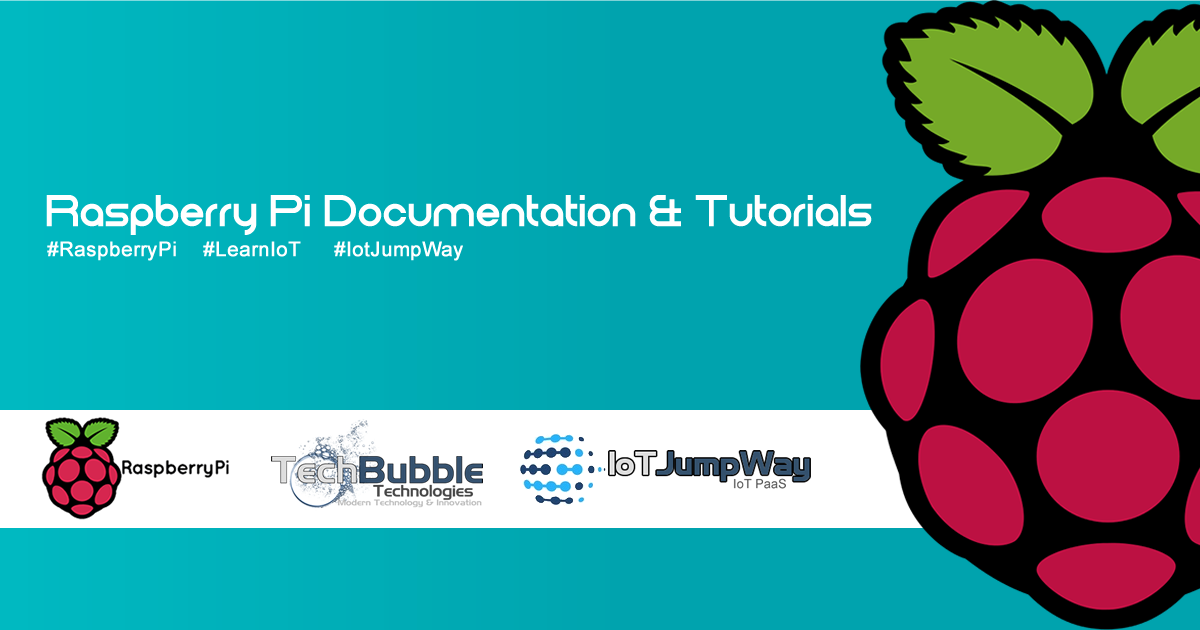
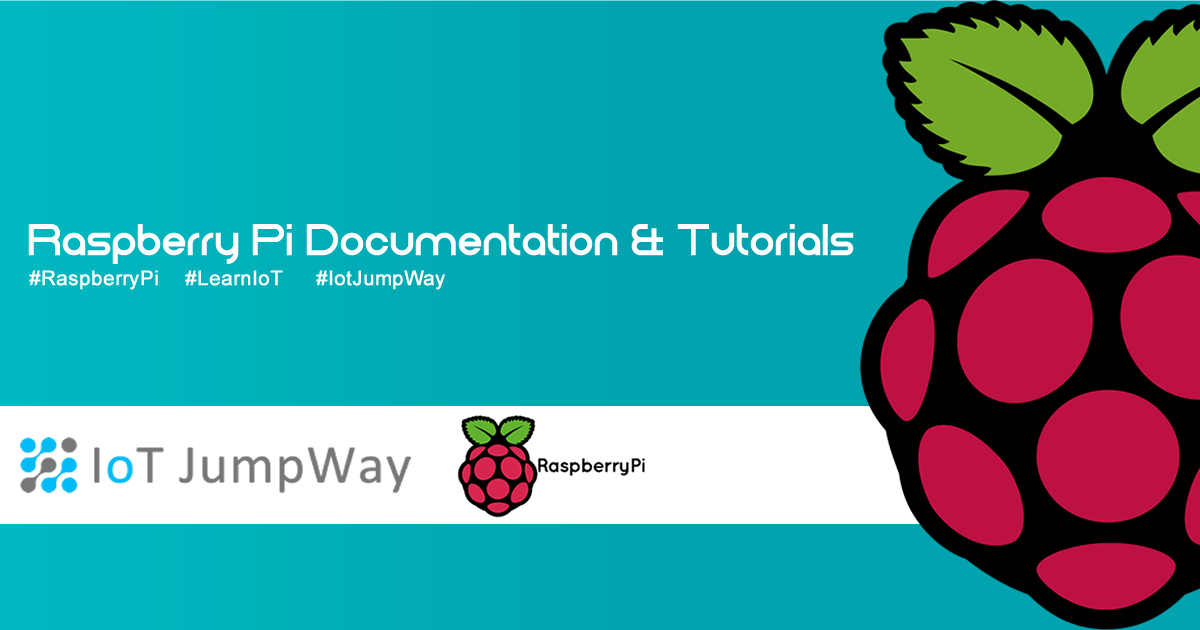
[README] Updated README and graphics

Changed region(s): [[0.0, 0.6333, 0.7708, 0.8444], [0.0, 0.3016, 0.74, 0.4524]]

diff --git a/README.md b/README.md
@@ -1,43 +1,39 @@
 # IoT JumpWay Raspberry Pi Examples
 
-![TechBubble IoT JumpWay Docs](images/main/Raspberry-Pi-Examples.png)  
+![IoT JumpWay Docs](images/main/Raspberry-Pi-Examples.png)
 
 ## Introduction
 
-TechBubble Technologies Internet of Things (IoT) JumpWay is an IoT PaaS that allows anyone to connect IoT devices such as Raspberry Pi, Intel® Galileo, Arduino, ESP8266 and even phones,PCs, Macs and laptops to the Internet of Things. The various IoT JumpWay libraries and samples allow you to connect devices and sensors to the IoT JumpWay and control/monitor sensors/actuators and data to and from the devices.
+IoT JumpWay is an IoT PaaS that allows anyone to connect IoT devices such as Raspberry Pi, Intel® Galileo, Arduino, ESP8266 and even phones,PCs, Macs and laptops to the Internet of Things. The various IoT JumpWay libraries and samples allow you to connect devices and sensors to the IoT JumpWay and control/monitor sensors/actuators and data to and from the devices.
 
-The Raspberry Pi examples provide example projects that you can use to get started with using the TechBubble IoT JumpWay for your IoT projects.
+The Raspberry Pi examples provide example projects that you can use to get started with using the IoT JumpWay for your IoT projects.
 
-## IoT JumpWay Raspberry Pi Examples
+## Examples
 
-- [Basic: Basic LED Python Example](https://github.com/TechBubbleTechnologies/IoT-JumpWay-RPI-Examples/tree/master/Basic-LED/Python "Basic: Basic LED Python Example")
+- [Basic: Basic LED Python Example](https://github.com/iotJumpway/IoT-JumpWay-RPI-Examples/tree/master/Basic-LED/Python "Basic: Basic LED Python Example")
 
-- [Computer Vision: Facial Recognition & Identification Python Example](https://github.com/TechBubbleTechnologies/IoT-JumpWay-RPI-Examples/tree/master/Computer-Vision/Python "Computer Vision: Facial Recognition & Identification Python Example")
+- [Computer Vision: Facial Recognition & Identification Python Example](https://github.com/iotJumpway/IoT-JumpWay-RPI-Examples/tree/master/Computer-Vision/Python "Computer Vision: Facial Recognition & Identification Python Example")
 
-## IoT JumpWay Raspberry Pi Examples Docs
+## Docs
 
-- [Preparing Your Raspberry Pi](https://github.com/TechBubbleTechnologies/IoT-JumpWay-RPI-Examples/blob/master/_DOCS/1-Raspberry-Pi-Prep.md "Preparing Your Raspberry Pi")
+- [Preparing Your Raspberry Pi](https://github.com/iotJumpway/IoT-JumpWay-RPI-Examples/blob/master/_DOCS/1-Raspberry-Pi-Prep.md "Preparing Your Raspberry Pi")
 
-- [Setup Domain Name & SSL For Your Raspberry Pi](https://github.com/TechBubbleTechnologies/IoT-JumpWay-RPI-Examples/blob/master/_DOCS/3-Raspberry-Pi-Domain-And-SSL.md "Setup Domain Name & SSL For Your Raspberry Pi")
+- [Setup Domain Name & SSL For Your Raspberry Pi](https://github.com/iotJumpway/IoT-JumpWay-RPI-Examples/blob/master/_DOCS/3-Raspberry-Pi-Domain-And-SSL.md "Setup Domain Name & SSL For Your Raspberry Pi")
 
-- [Installing OpenCV 3.2.0 On Your Raspberry Pi (LATEST RELEASE)](https://github.com/TechBubbleTechnologies/IoT-JumpWay-RPI-Examples/blob/master/_DOCS/2-Installing-OpenCV-3-2-0.md "Installing OpenCV 3.2.0 On Your Raspberry Pi (LATEST RELEASE)")
+- [Installing OpenCV 3.2.0 On Your Raspberry Pi (LATEST RELEASE)](https://github.com/iotJumpway/IoT-JumpWay-RPI-Examples/blob/master/_DOCS/2-Installing-OpenCV-3-2-0.md "Installing OpenCV 3.2.0 On Your Raspberry Pi (LATEST RELEASE)")
 
-- [Installing OpenCV 3.1.0 On Your Raspberry Pi](https://github.com/TechBubbleTechnologies/IoT-JumpWay-RPI-Examples/blob/master/_DOCS/2-Installing-OpenCV.md "Installing OpenCV 3.1.0 On Your Raspberry Pi")
+- [Installing OpenCV 3.1.0 On Your Raspberry Pi](https://github.com/iotJumpway/IoT-JumpWay-RPI-Examples/blob/master/_DOCS/2-Installing-OpenCV.md "Installing OpenCV 3.1.0 On Your Raspberry Pi")
 
-- [Installing Linux Motion On Your Raspberry Pi](https://github.com/TechBubbleTechnologies/IoT-JumpWay-RPI-Examples/blob/master/_DOCS/5-Installing-Motion.md "Installing Linux Motion On Your Raspberry Pi")
+- [Installing Linux Motion On Your Raspberry Pi](https://github.com/iotJumpway/IoT-JumpWay-RPI-Examples/blob/master/_DOCS/5-Installing-Motion.md "Installing Linux Motion On Your Raspberry Pi")
 
-- [Installing Secure Nginx Server For Linux Motion On Raspberry Pi](https://github.com/TechBubbleTechnologies/IoT-JumpWay-RPI-Examples/blob/master/_DOCS/6-Secure-Nginx-Server-For-Motion.md "Installing Secure Nginx Server For Linux Motion On Raspberry Pi")
+- [Installing Secure Nginx Server For Linux Motion On Raspberry Pi](https://github.com/iotJumpway/IoT-JumpWay-RPI-Examples/blob/master/_DOCS/6-Secure-Nginx-Server-For-Motion.md "Installing Secure Nginx Server For Linux Motion On Raspberry Pi")
 
-- [Securing Your Raspberry Pi With IPTables](https://github.com/TechBubbleTechnologies/IoT-JumpWay-RPI-Examples/blob/master/_DOCS/4-Securing-Your-Raspberry-Pi-With-IPTables.md "Securing Your Raspberry Pi With IPTables")
+- [Securing Your Raspberry Pi With IPTables](https://github.com/iotJumpway/IoT-JumpWay-RPI-Examples/blob/master/_DOCS/4-Securing-Your-Raspberry-Pi-With-IPTables.md "Securing Your Raspberry Pi With IPTables")
 
-## IoT JumpWay Raspberry Pi Examples Bugs/Issues
+## Bugs/Issues
 
 Please feel free to create issues for bugs and general issues you come across whilst using the IoT JumpWay Raspberry Pi Examples. You may also use the issues area to ask for general help whilst using the IoT JumpWay Raspberry Pi Examples in your IoT projects.
 
-## IoT JumpWay Raspberry Pi Examples Contributors
+## Contributors
 
-- [Adam Milton-Barker, TechBubble Technologies Founder](https://github.com/AdamMiltonBarker "Adam Milton-Barker, TechBubble Technologies Founder")
-
-![Adam Milton-Barker,  Intel Software Innovator](images/main/Intel-Software-Innovator.jpg)  
-
-- [Andrej Petelin, TechBubble Technologies Dev](https://github.com/AndrejPetelin "Andrej Petelin, TechBubble Technologies Dev")
+[![Adam Milton-Barker, Intel® Software Innovator](images/main/Intel-Software-Innovator.jpg)](https://github.com/AdamMiltonBarker)
